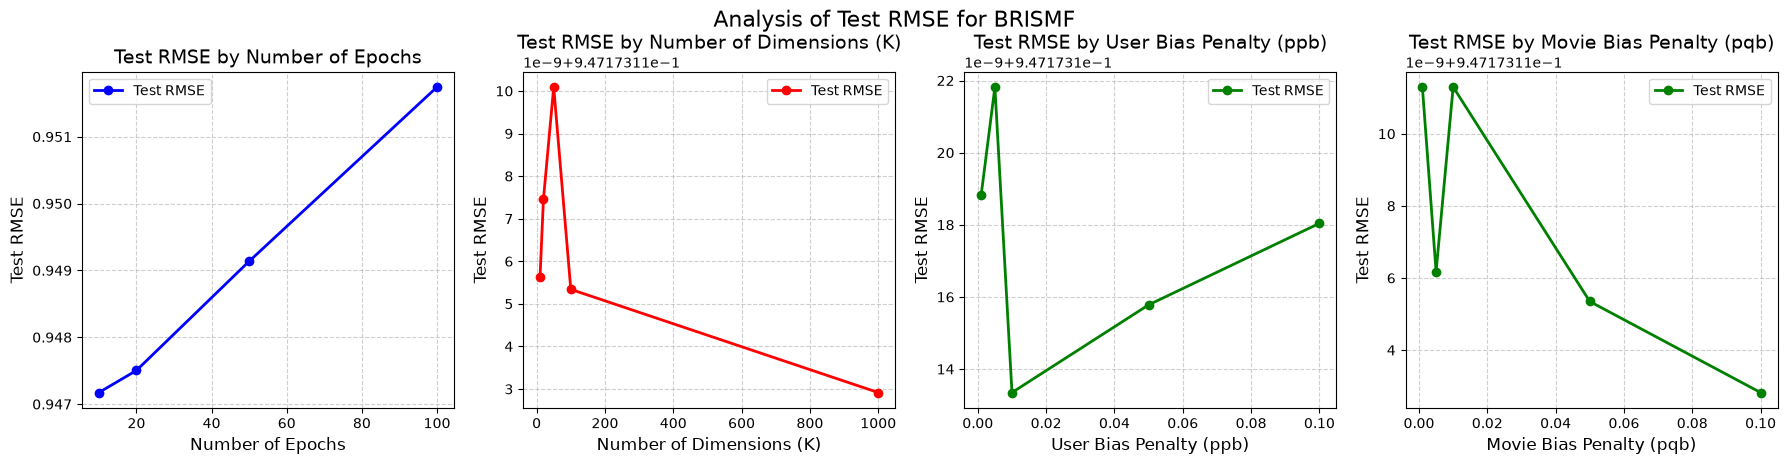
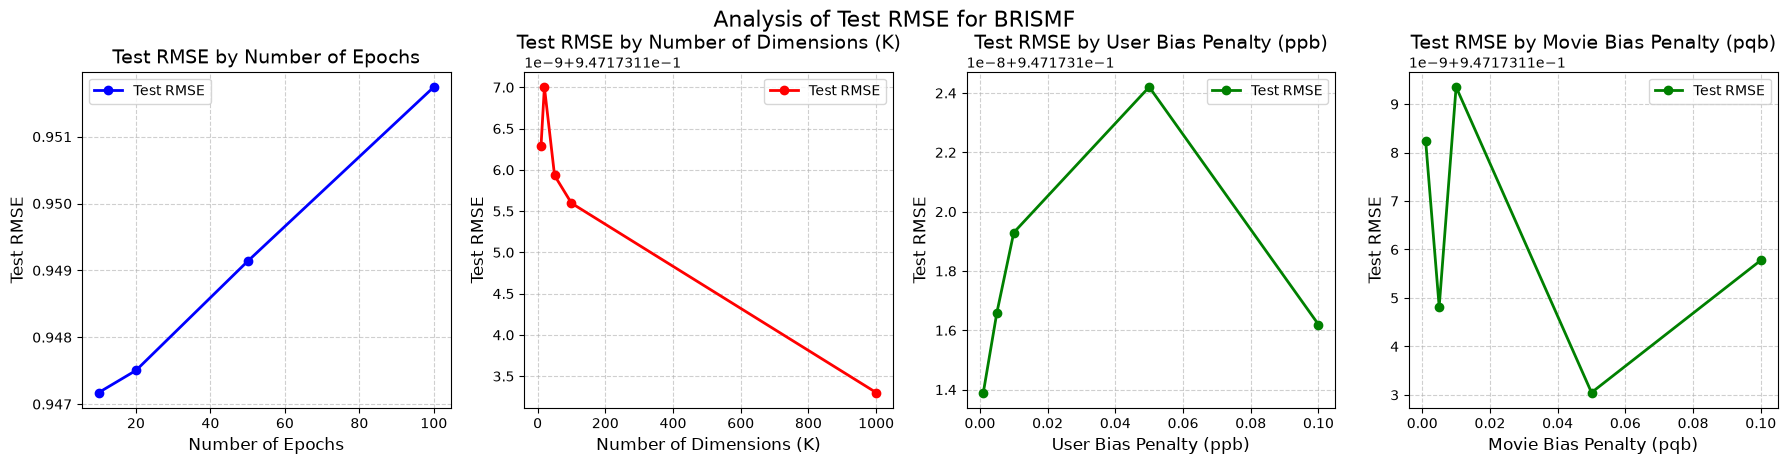
Update paths for importing data and saving the analysis results, so that we can run the analysis from the root directory.

diff --git a/src/analysis.py b/src/analysis.py
@@ -145,7 +145,7 @@ def best_rmse_all(
         'Model': ['BRISMF', 'Iterative SVD', 'SVD++'],
         'RMSE': [rmse_brismf, rmse_iterative_svd, rmse_svdpp]
     })
-    rmse_results.to_csv('../results/rmse_results.csv', index=False)
+    rmse_results.to_csv('results/rmse_results.csv', index=False)
 
 
 def plot_brismf_details(
@@ -225,7 +225,7 @@ def plot_brismf_details(
     fig.suptitle('Analysis of Test RMSE for BRISMF', fontsize=16, y=1.02)
 
     # Save the figure as a PNG file
-    plt.savefig('../results/brismf_rmse_analysis_plot.png', bbox_inches='tight')
+    plt.savefig('results/brismf_rmse_analysis_plot.png', bbox_inches='tight')
 
 
 def plot_svdpp_details(
@@ -310,4 +310,4 @@ def plot_svdpp_details(
     fig.suptitle('Analysis of Test RMSE for SVD++', fontsize=16, y=1.02)
 
     # Save the figure as a PNG file
-    plt.savefig('../results/svdpp_rmse_analysis_plot.png', bbox_inches='tight')
+    plt.savefig('results/svdpp_rmse_analysis_plot.png', bbox_inches='tight')

diff --git a/src/run_analysis.py b/src/run_analysis.py
@@ -10,7 +10,7 @@ random.seed(1)
 # We split the data temporally. In other words, we first find the 100000 most recent ratings. 
 # We then reserve the newest 20000 of the 100000 ratings as the test set, while the remaining 80000 is 
 # used as the training set.
-full = pd.read_csv('../data/data.csv').drop(columns=['Unnamed: 0'])[-100000:]
+full = pd.read_csv('data/data.csv').drop(columns=['Unnamed: 0'])[-100000:]
 train = full[:80000]
 test = full[-20000:]
 
